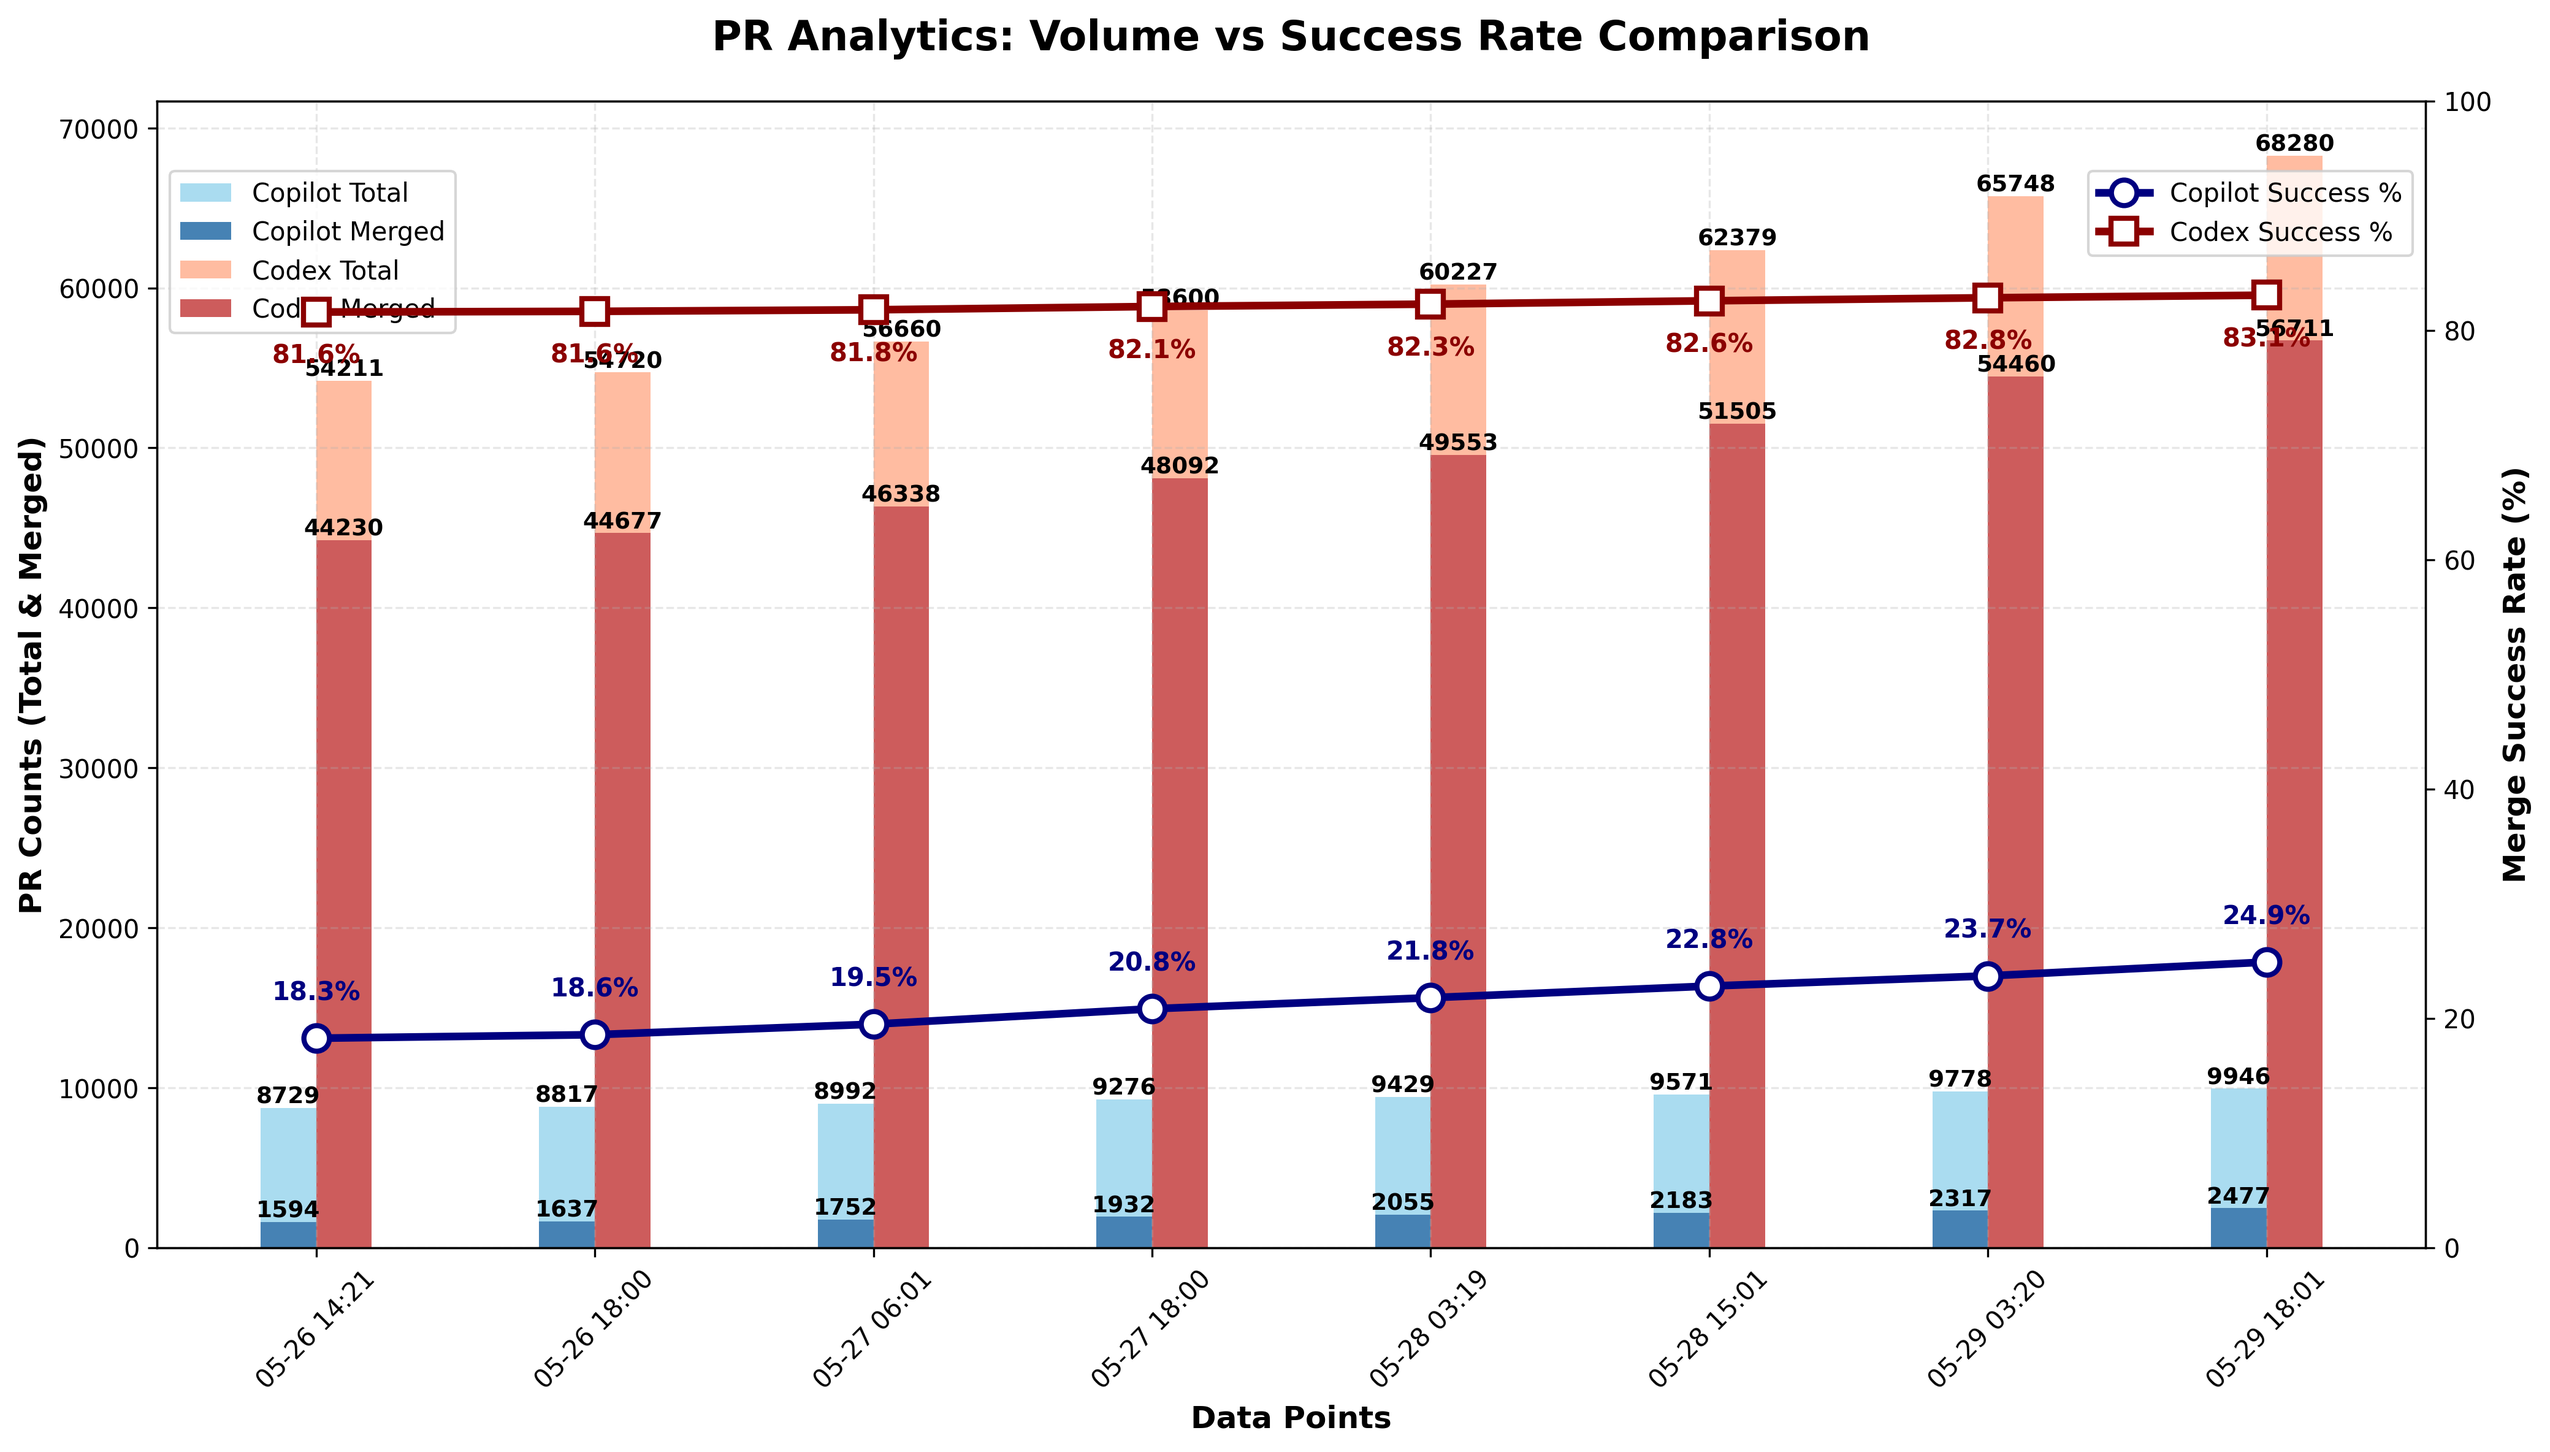
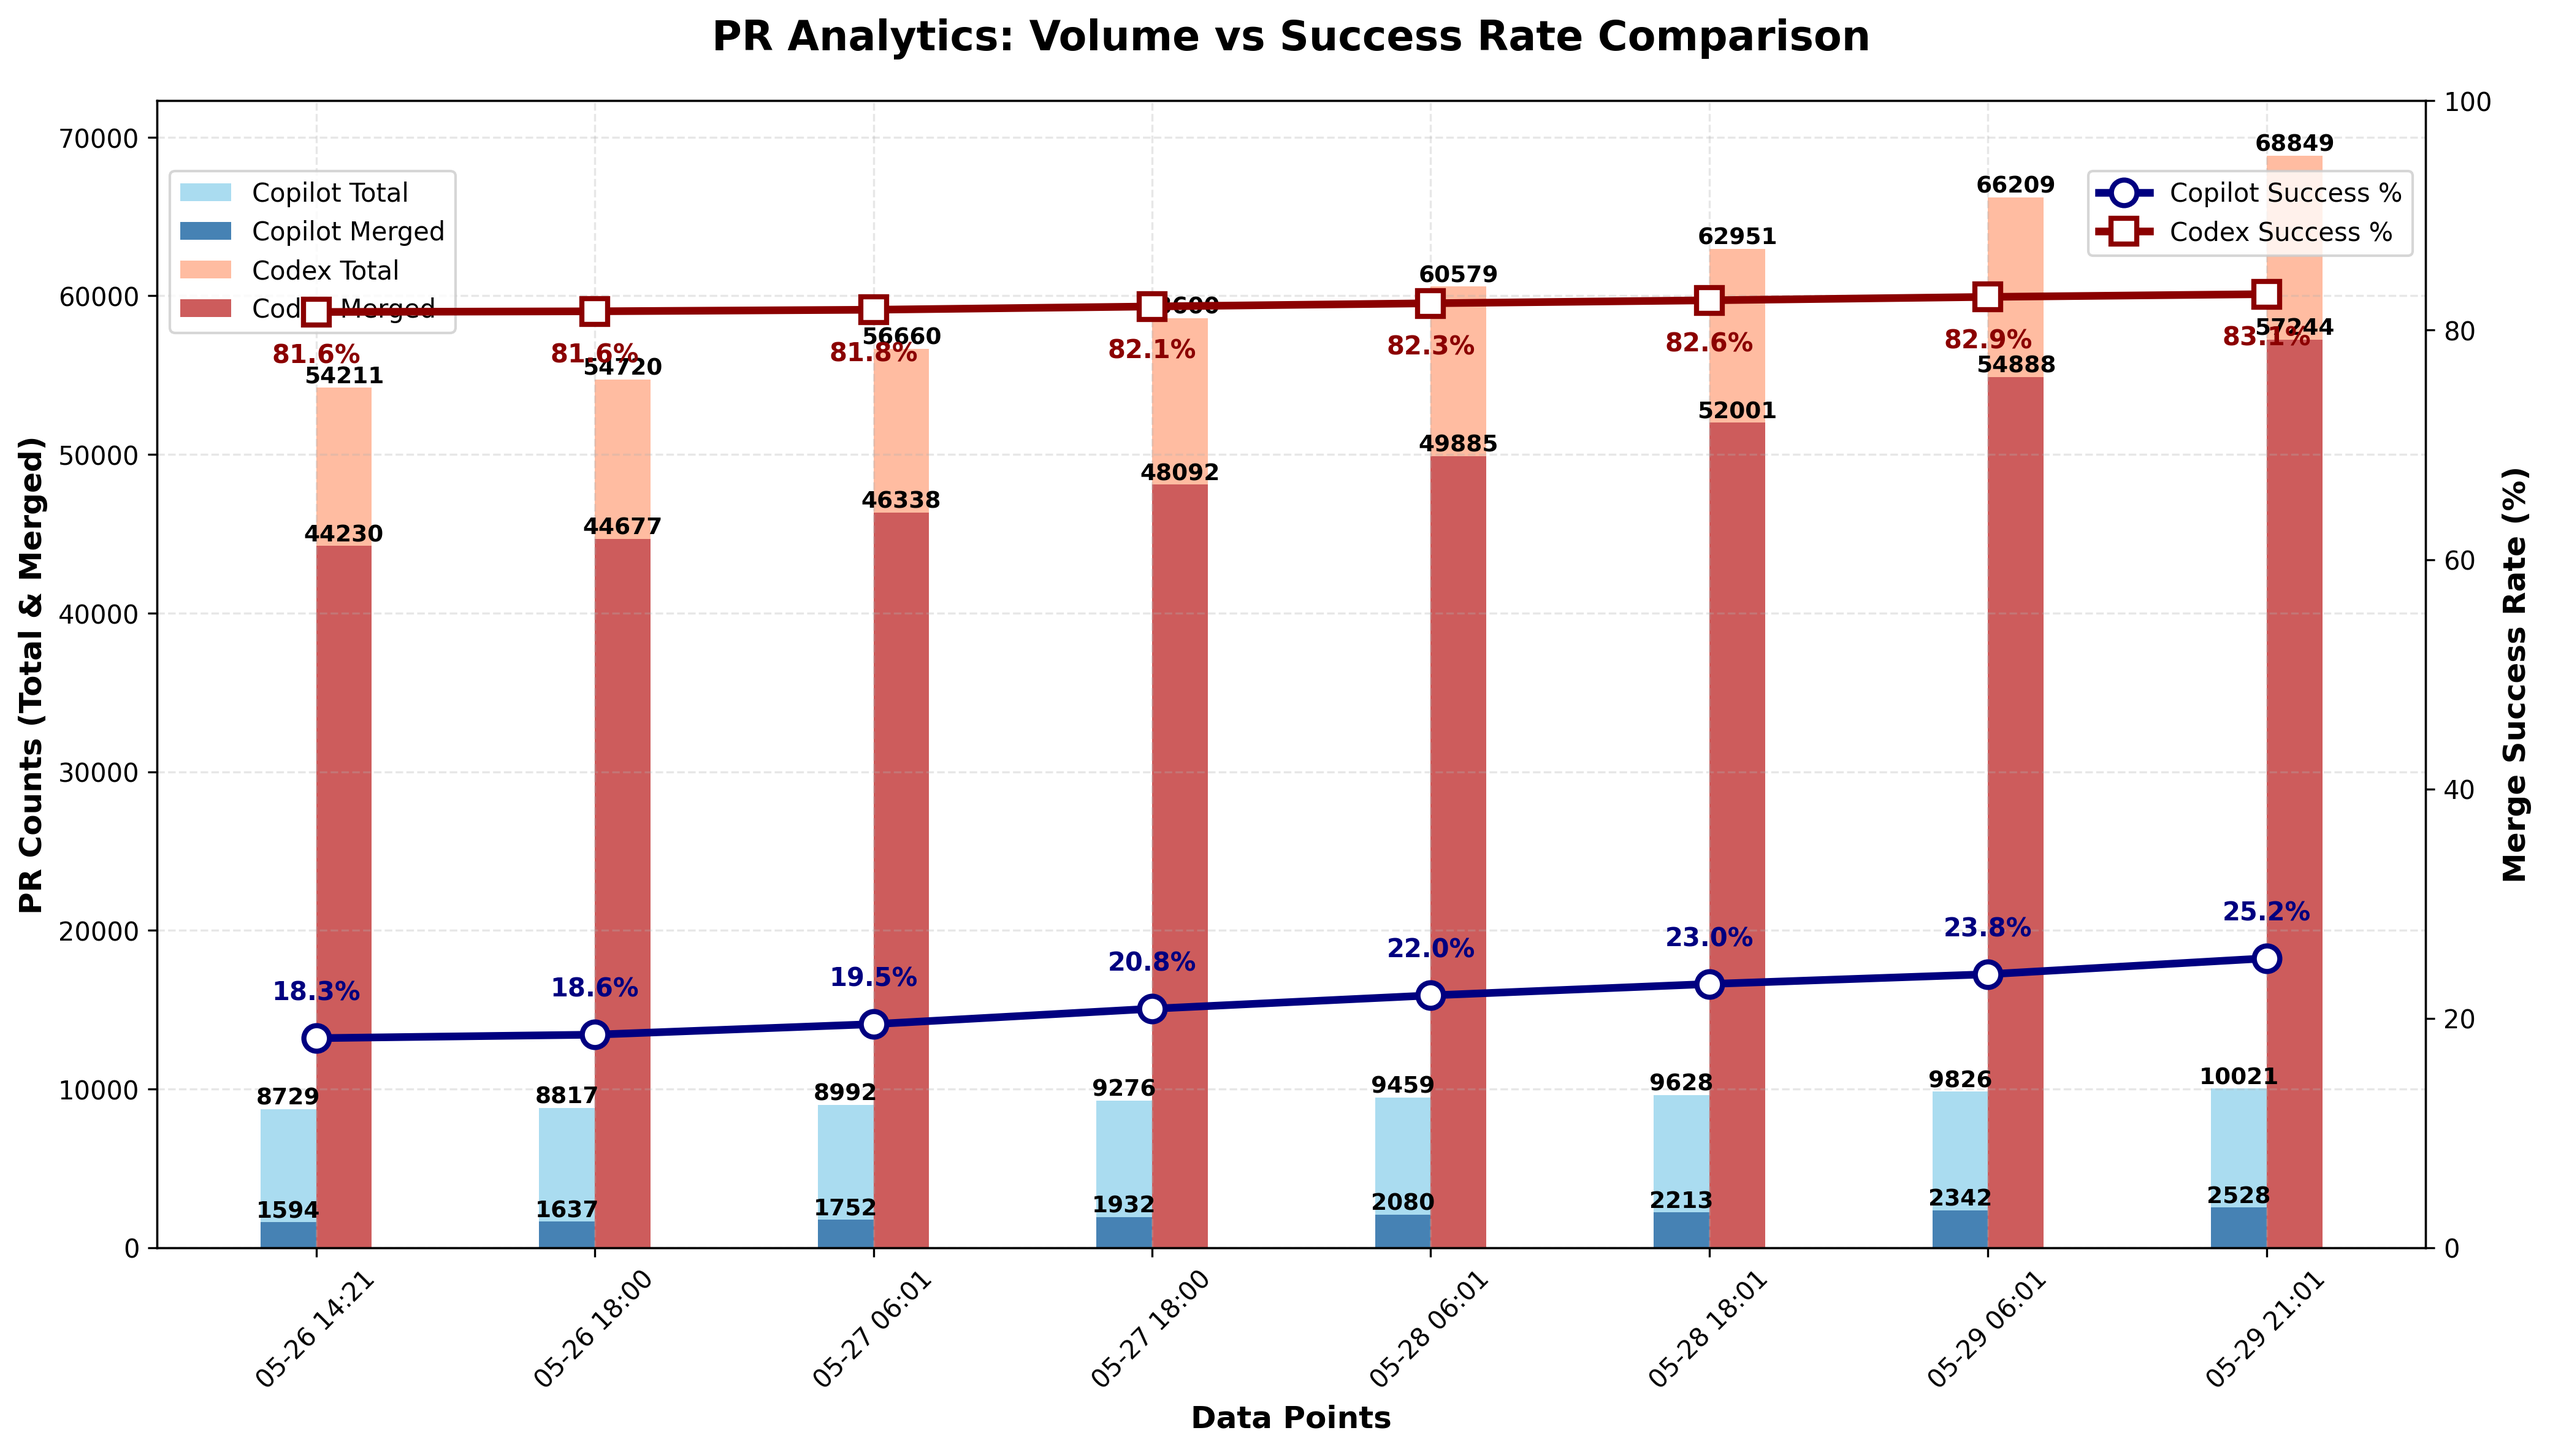
chore: update PR‑approval chart

diff --git a/docs/index.html b/docs/index.html
@@ -44,22 +44,22 @@
                 <tbody>
                     <tr>
                         <td>Copilot</td>
-                        <td>9,946</td>
-                        <td>2,477</td>
-                        <td>24.90%</td>
+                        <td>10,021</td>
+                        <td>2,528</td>
+                        <td>25.23%</td>
                     </tr>
                     <tr>
                         <td>Codex</td>
-                        <td>68,280</td>
-                        <td>56,711</td>
-                        <td>83.06%</td>
+                        <td>68,849</td>
+                        <td>57,244</td>
+                        <td>83.14%</td>
                     </tr>
                 </tbody>
             </table>
         </section>
 
         <footer>
-            <p>Last updated: <span id="last-updated">May 29, 2025 18:01 UTC</span></p>
+            <p>Last updated: <span id="last-updated">May 29, 2025 21:01 UTC</span></p>
             <p><a href="https://github.com/aavetis/ai-pr-watcher">View on GitHub</a></p>
         </footer>
     </div>

diff --git a/README.md b/README.md
@@ -19,5 +19,5 @@ Explore the GitHub search queries used:
 
 | Project | Total PRs | Merged PRs | Merge Rate |
 | ------- | --------- | ---------- | ---------- |
-| Copilot | 9,946 | 2,477 | 24.90% |
-| Codex   | 68,280 | 56,711 | 83.06% |
+| Copilot | 10,021 | 2,528 | 25.23% |
+| Codex   | 68,849 | 57,244 | 83.14% |
